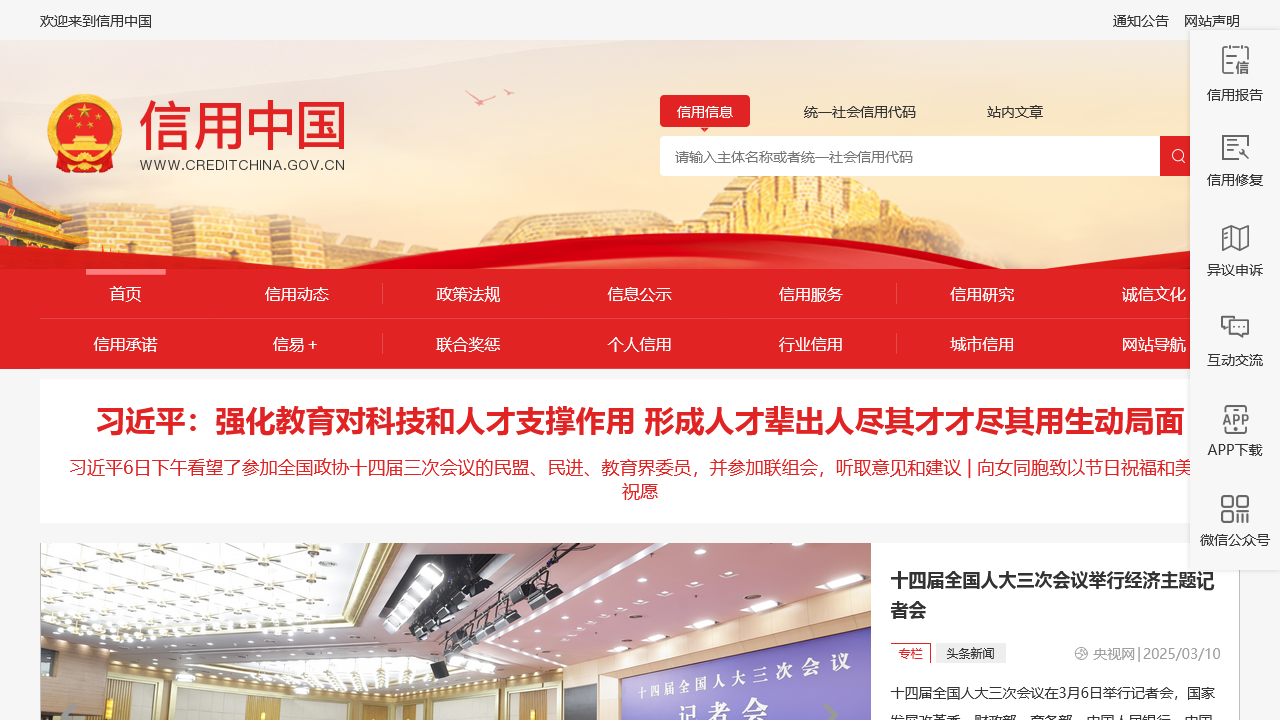
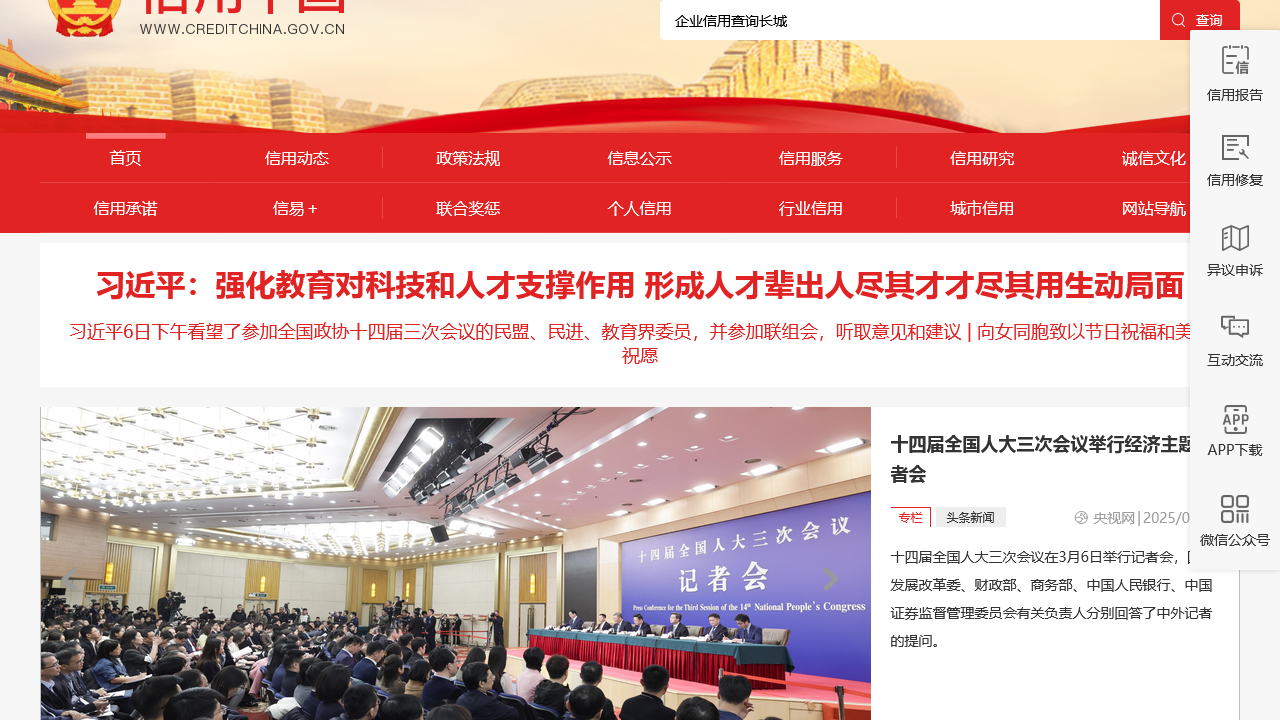
button click

diff --git a/main.py b/main.py
@@ -7,11 +7,18 @@ with sync_playwright() as p:
     page = browser.new_page()
 
     # 访问信用中国首页
-    page.goto("https://www.creditchina.gov.cn/", wait_until="networkidle")
+    page.goto("https://www.creditchina.gov.cn/")
 
-    # 等待页面加载完成
+
+# 使用 ID 定位输入框
+    page.fill("#search_input", "企业信用查询长城")  # 直接填充文本
+    # page.press("#search_input", "Enter")  # 模拟按 Enter 键
+    page.click(".search_btn")  # 点击搜索按钮
+    
+        # 等待页面加载完成
     page.wait_for_load_state("networkidle")
 
+    
     # 获取页面标题
     title = page.title()
     print(f"页面标题: {title}")
@@ -20,4 +27,4 @@ with sync_playwright() as p:
     page.screenshot(path="creditchina_homepage.png")
 
     # 关闭浏览器
-    browser.close()
+    browser.close() 
